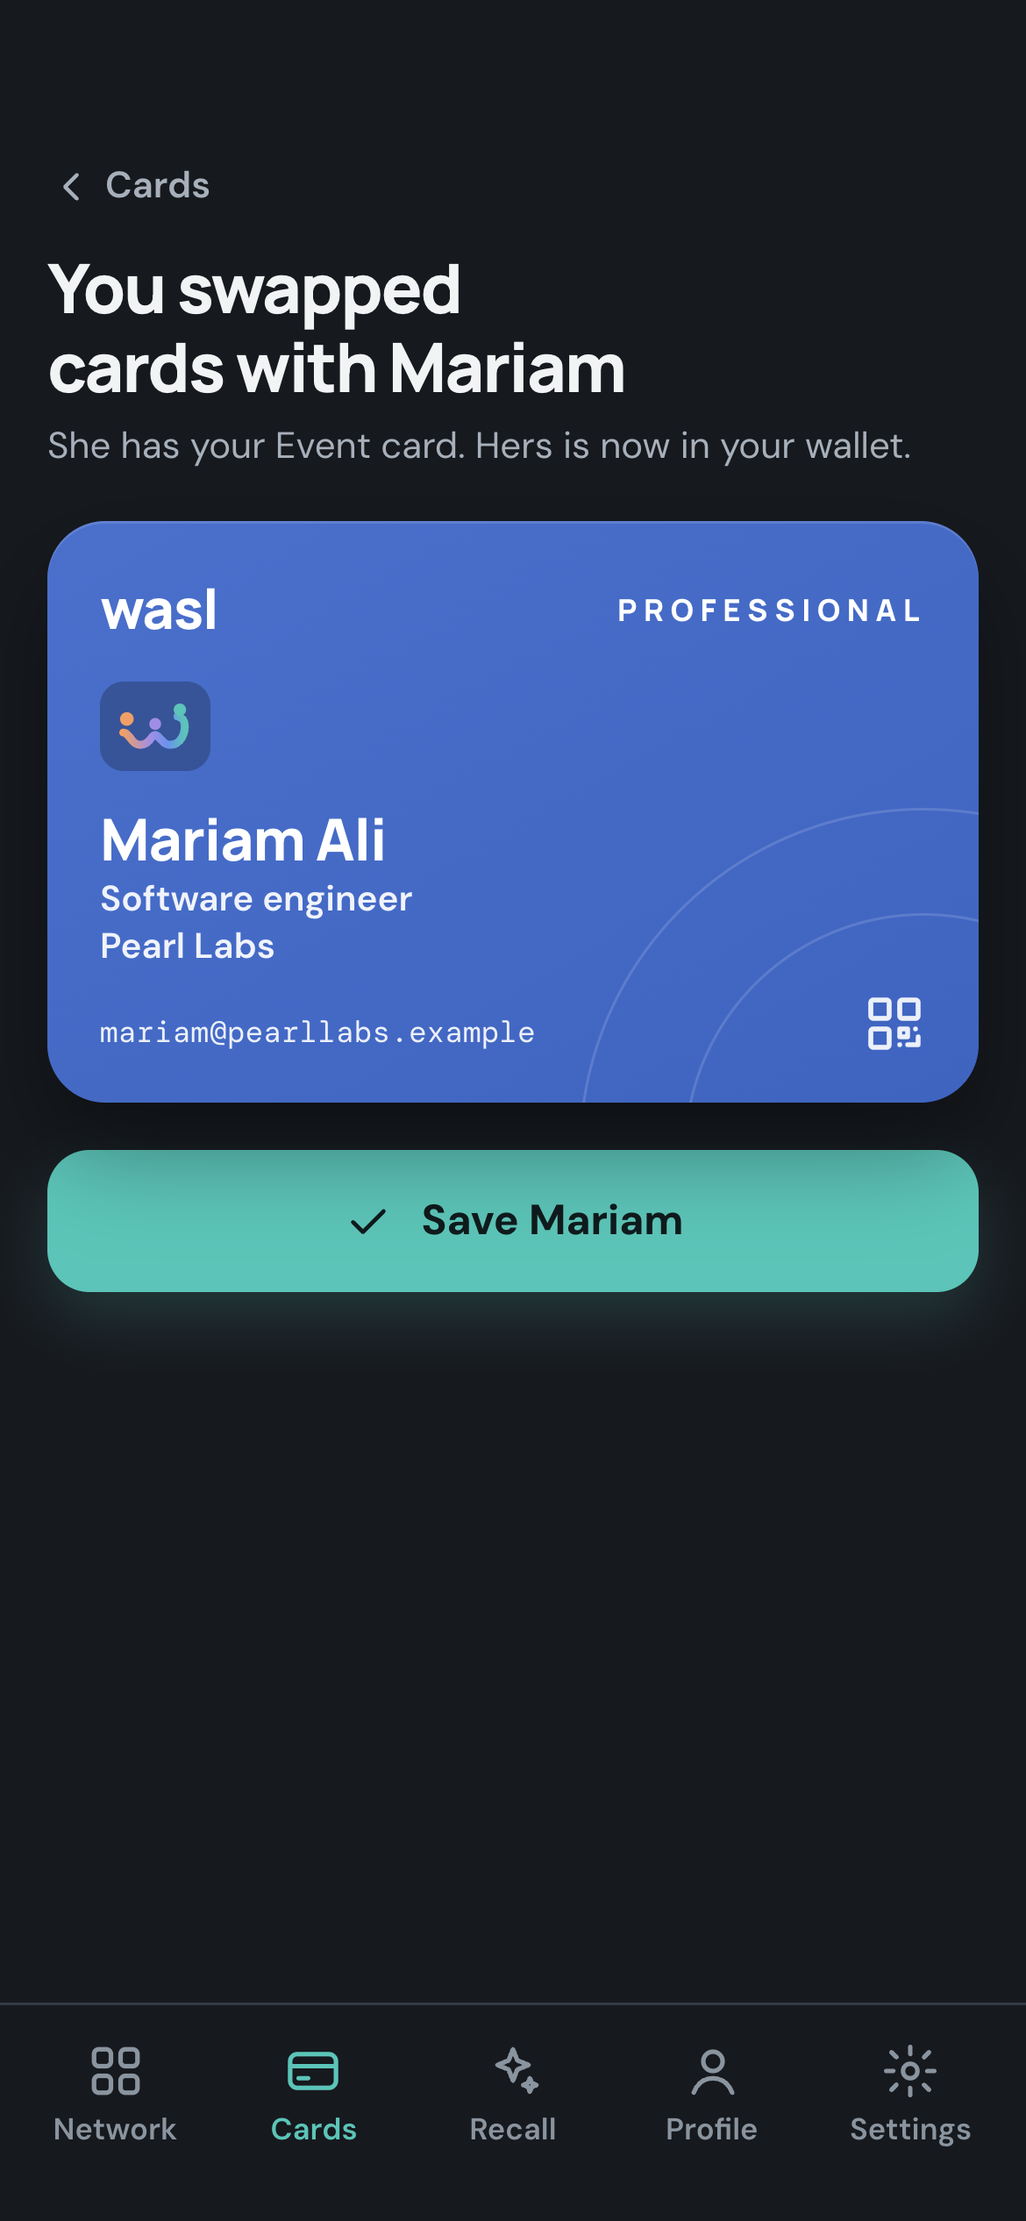
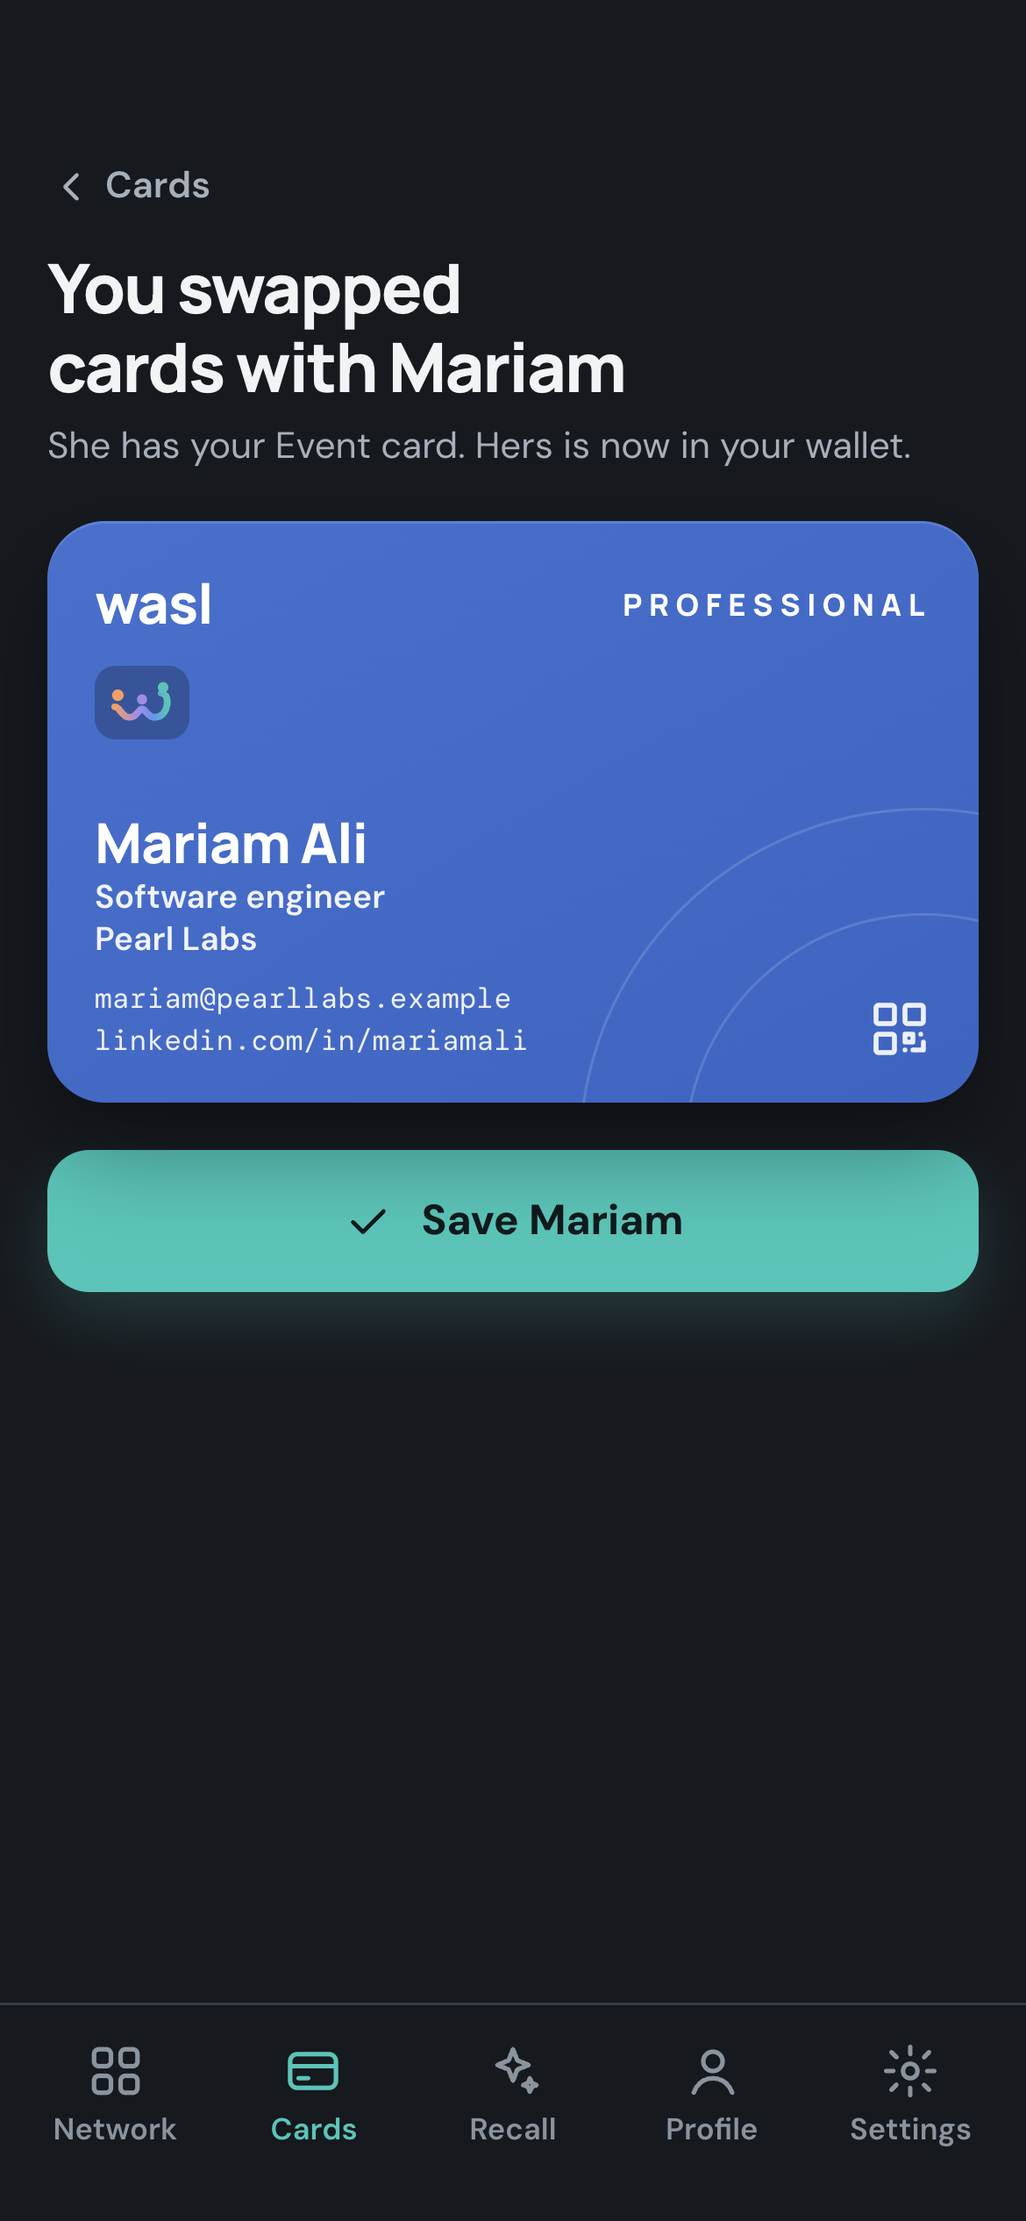
Vary card details, fix welcome-screen cards on phones, add paper card scanning
Cards now show different sets of details (email and LinkedIn, Instagram, phone)
instead of the same three fields. The welcome-screen cards use a fixed compact
size so long text can no longer stretch them into squares over the buttons.
The Share step adds scanning a paper business card for people without Wasl.

Changed region(s): [[0.0923, 0.2496, 0.5231, 0.468], [0.5846, 0.2496, 0.8923, 0.2808], [0.8308, 0.4368, 0.9231, 0.4992]]

diff --git a/public/mockup/index.html b/public/mockup/index.html
@@ -296,10 +296,11 @@ h1, h2, h3 { font-family: var(--display); text-wrap: balance; }
 .card {
   position: relative;
   border-radius: 22px;
-  padding: 18px 20px;
+  padding: 16px 18px;
   color: var(--card-text);
   overflow: hidden;
   aspect-ratio: 1.6 / 1;
+  min-height: 0;
   max-width: 100%;
   display: flex; flex-direction: column;
   box-shadow: 0 18px 34px rgba(0, 0, 0, 0.35), inset 0 1px 0 rgba(255, 255, 255, 0.12);
@@ -323,12 +324,22 @@ h1, h2, h3 { font-family: var(--display); text-wrap: balance; }
 .card .c-top { display: flex; justify-content: space-between; align-items: center; }
 .card .c-word { font-family: var(--display); font-weight: 800; font-size: 21px; letter-spacing: -0.4px; }
 .card .c-kind { font-family: var(--display); font-weight: 800; font-size: 11.5px; letter-spacing: 0.22em; }
-.card .c-tile { width: 42px; height: 34px; border-radius: 9px; background: rgba(15, 18, 24, 0.28); display: grid; place-items: center; margin-top: 12px; }
-.card .c-tile svg { width: 30px; height: 19px; }
-.card .c-name { font-family: var(--display); font-weight: 800; font-size: 22px; letter-spacing: -0.4px; margin-top: auto; line-height: 1.15; }
-.card .c-line { font-size: 13.5px; font-weight: 600; opacity: 0.92; line-height: 1.35; }
-.card .c-foot { display: flex; justify-content: space-between; align-items: flex-end; margin-top: 8px; gap: 8px; }
-.card .c-mono { font-family: var(--mono); font-size: 11.5px; opacity: 0.9; overflow: hidden; text-overflow: ellipsis; white-space: nowrap; }
+.card .c-tile { width: 36px; height: 28px; border-radius: 8px; background: rgba(15, 18, 24, 0.28); display: grid; place-items: center; margin-top: 8px; flex: none; }
+.card .c-tile svg { width: 26px; height: 16px; }
+.card .c-name { font-family: var(--display); font-weight: 800; font-size: 21px; letter-spacing: -0.4px; margin-top: auto; line-height: 1.15; overflow: hidden; text-overflow: ellipsis; white-space: nowrap; }
+.card .c-line { font-size: 12.5px; font-weight: 600; opacity: 0.92; line-height: 1.35; overflow: hidden; text-overflow: ellipsis; white-space: nowrap; }
+.card .c-foot { display: flex; justify-content: space-between; align-items: flex-end; margin-top: 6px; gap: 8px; }
+.card .c-contacts { display: flex; flex-direction: column; min-width: 0; }
+.card .c-mono { font-family: var(--mono); font-size: 11px; line-height: 1.4; opacity: 0.9; overflow: hidden; text-overflow: ellipsis; white-space: nowrap; }
+/* small cards fanned out on the welcome screen: fixed size so long text can never stretch them */
+.card.mini { width: 196px; height: 122px; aspect-ratio: auto; padding: 12px 14px; border-radius: 16px; }
+.card.mini .c-word { font-size: 16px; }
+.card.mini .c-kind { font-size: 9px; letter-spacing: 0.18em; }
+.card.mini .c-tile { width: 28px; height: 22px; margin-top: 6px; }
+.card.mini .c-tile svg { width: 20px; height: 13px; }
+.card.mini .c-name { font-size: 16px; }
+.card.mini .c-line { font-size: 10.5px; }
+.card.mini .c-foot { display: none; }
 .card .c-qr { width: 24px; height: 24px; flex: none; opacity: 0.9; }
 .card .f { border-radius: 6px; transition: background 120ms; }
 .card.editing .f { cursor: pointer; outline: 1px dashed rgba(255, 255, 255, 0.35); outline-offset: 2px; padding: 0 3px; margin-left: -3px; }
@@ -347,8 +358,8 @@ h1, h2, h3 { font-family: var(--display); text-wrap: balance; }
 .join-hero svg.big { width: 128px; height: 82px; }
 .join-hero .wm { font-family: var(--display); font-weight: 800; font-size: 44px; letter-spacing: -1.2px; line-height: 1; }
 .join-hero p { color: var(--text-2); max-width: 26ch; }
-.fan { position: relative; height: 170px; margin: 18px 0 8px; }
-.fan .card { position: absolute; width: 210px; left: 50%; top: 10px; }
+.fan { position: relative; height: 160px; margin: 18px 0 8px; }
+.fan .card { position: absolute; left: 50%; top: 14px; }
 .viewfinder {
   position: relative;
   border-radius: 24px;
@@ -675,16 +686,17 @@ h1, h2, h3 { font-family: var(--display); text-wrap: balance; }
   const KIND = { pro: "PROFESSIONAL", event: "EVENT", social: "SOCIAL", team: "TEAM WASL" };
   const COLOR_NAME = { pro: "Deep teal", event: "Deep violet", social: "Copper", team: "Deep blue" };
 
+  // Each person shares a different set of details, the way real cards differ.
   const MARIAM = {
     id: "mariam", name: "Mariam Ali", role: "Software engineer", org: "Pearl Labs",
-    mono: "mariam@pearllabs.example", color: "team", kind: "PROFESSIONAL",
+    contacts: ["mariam@pearllabs.example", "linkedin.com/in/mariamali"], color: "team", kind: "PROFESSIONAL",
   };
   const TONIGHT = [
     MARIAM,
-    { id: "omar", name: "Omar Haddad", role: "Product designer", org: "Dhow Design Studio", mono: "@omar.designs", color: "social", kind: "SOCIAL", note: "Showed his portfolio app" },
-    { id: "lina", name: "Lina Farouk", role: "Data scientist", org: "Falcon Analytics", mono: "lina@falcon.example", color: "pro", kind: "PROFESSIONAL", note: "Talked about her NLP research" },
-    { id: "yousef", name: "Yousef Al-Kuwari", role: "Founder", org: "Najm Robotics", mono: "yousef@najm.example", color: "event", kind: "EVENT", note: "Looking for a first engineer" },
-    { id: "sara", name: "Sara Nasser", role: "Talent partner", org: "Corniche Capital", mono: "sara@corniche.example", color: "team", kind: "PROFESSIONAL", note: "Runs their internship program" },
+    { id: "omar", name: "Omar Haddad", contacts: ["@omar.designs", "omar.haddad@mail.example"], color: "social", kind: "SOCIAL", role: "Product designer", org: "Dhow Design Studio", hideWork: true, note: "Showed his portfolio app" },
+    { id: "lina", name: "Lina Farouk", role: "Data scientist", org: "Falcon Analytics", contacts: ["lina@falcon.example", "linkedin.com/in/linafarouk"], color: "pro", kind: "PROFESSIONAL", note: "Talked about her NLP research" },
+    { id: "yousef", name: "Yousef Al-Kuwari", role: "Founder", org: "Najm Robotics", contacts: ["+974 5530 1188"], color: "event", kind: "EVENT", note: "Looking for a first engineer" },
+    { id: "sara", name: "Sara Nasser", role: "Talent partner", org: "Corniche Capital", contacts: ["sara@corniche.example"], color: "team", kind: "PROFESSIONAL", note: "Runs their internship program" },
   ];
   const OLDER = [
     { name: "Hamad Al-Thani", role: "Mentor, venture studio", org: "Bayt Ventures", event: "Web Summit Qatar", tag: "Mentor", color: "pro", when: "Oct 12" },
@@ -707,10 +719,10 @@ h1, h2, h3 { font-family: var(--display); text-wrap: balance; }
     profileFilled: false,
     extra: { instagram: false, photo: false },
     cards: {
-      pro: { color: "pro", fields: ["name", "role", "org", "email"] },
+      pro: { color: "pro", fields: ["name", "role", "org", "email", "linkedin"] },
       event: { color: "event", fields: ["name", "role", "org"] },
-      social: { color: "social", fields: ["name", "org", "instagram"] },
-      team: { color: "team", fields: ["name", "role", "email"] },
+      social: { color: "social", fields: ["name", "email", "instagram"] },
+      team: { color: "team", fields: ["name", "role", "phone"] },
     },
     order: ["social", "team", "pro", "event"],
     front: "event",
@@ -750,32 +762,34 @@ h1, h2, h3 { font-family: var(--display); text-wrap: balance; }
     const c = opts.data || S.cards[id];
     const fields = c.fields;
     const isEdit = !!opts.edit;
-    const body = ["name", "role", "org"].filter((f) => fields.includes(f));
+    const mini = !!opts.mini;
+    const body = ["name", "role", "org"].filter((f) => fields.includes(f) && !(mini && f === "org"));
     const contact = fields.filter((f) => !["name", "role", "org"].includes(f));
     const fEl = (f, cls, text) =>
       isEdit && f !== "name"
         ? `<span class="f ${cls}" data-act="hide-field" data-f="${f}" role="button" tabindex="0" aria-label="Hide ${FIELD_META[f].label}">${esc(text)}</span>`
         : `<span class="f ${cls} ${isEdit ? "locked" : ""}">${esc(text)}</span>`;
-    return `<${opts.tag || "div"} class="card ${c.color} ${isEdit ? "editing" : ""} ${opts.cls || ""}" ${opts.attrs || ""}>
+    return `<${opts.tag || "div"} class="card ${c.color} ${isEdit ? "editing" : ""} ${mini ? "mini" : ""} ${opts.cls || ""}" ${opts.attrs || ""}>
       <div class="c-top"><span class="c-word">wasl</span><span class="c-kind">${KIND[id] || ""}</span></div>
       <div class="c-tile">${symbol()}</div>
       ${body.includes("name") ? `<div class="c-name">${fEl("name", "", ME.name)}</div>` : ""}
       ${body.filter((f) => f !== "name").map((f) => `<div class="c-line">${fEl(f, "", fieldValue(f))}</div>`).join("")}
       <div class="c-foot">
-        <span class="c-mono">${contact.length ? contact.map((f) => fEl(f, "", fieldValue(f))).join(" · ") : body.map((f) => FIELD_META[f].label).join(" · ")}</span>
+        <span class="c-contacts">${contact.length ? contact.map((f) => `<span class="c-mono">${fEl(f, "", fieldValue(f))}</span>`).join("") : `<span class="c-mono">${body.map((f) => FIELD_META[f].label).join(" · ")}</span>`}</span>
         <span class="c-qr">${ic("qr")}</span>
       </div>
     </${opts.tag || "div"}>`;
   }
   function personCard(p, opts = {}) {
+    const lines = p.hideWork ? [] : [p.role, p.org].filter(Boolean);
+    const contacts = opts.foot ? [opts.foot] : p.contacts || [];
     return `<div class="card ${p.color} ${opts.cls || ""}" ${opts.attrs || ""}>
       <div class="c-top"><span class="c-word">wasl</span><span class="c-kind">${p.kind || "PROFESSIONAL"}</span></div>
       <div class="c-tile">${symbol()}</div>
       <div class="c-name">${esc(p.name)}</div>
-      <div class="c-line">${esc(p.role)}</div>
-      <div class="c-line">${esc(p.org)}</div>
+      ${lines.map((l) => `<div class="c-line">${esc(l)}</div>`).join("")}
       ${opts.note ? `<div class="note">${esc(opts.note)}</div>` : ""}
-      <div class="c-foot"><span class="c-mono">${esc(p.mono || "")}</span><span class="c-qr">${ic("qr")}</span></div>
+      <div class="c-foot"><span class="c-contacts">${contacts.map((x) => `<span class="c-mono">${esc(x)}</span>`).join("")}</span><span class="c-qr">${ic("qr")}</span></div>
       ${opts.stamps ? '<span class="stamp fav">FAVORITE</span><span class="stamp keep">CONTACT</span>' : ""}
     </div>`;
   }
@@ -825,9 +839,9 @@ h1, h2, h3 { font-family: var(--display); text-wrap: balance; }
           <p>Never forget who you met, or why it mattered.</p>
         </div>
         <div class="fan" aria-hidden="true">
-          ${card("social", { cls: "", attrs: 'style="transform:translateX(-82%) rotate(-12deg) scale(.9)"' })}
-          ${card("event", { attrs: 'style="transform:translateX(-18%) rotate(10deg) scale(.9)"' })}
-          ${card("pro", { attrs: 'style="transform:translateX(-50%) rotate(-1deg) scale(.95);top:18px"' })}
+          ${card("social", { mini: true, attrs: 'style="transform:translateX(-88%) rotate(-12deg) scale(.9)"' })}
+          ${card("event", { mini: true, attrs: 'style="transform:translateX(-12%) rotate(10deg) scale(.9)"' })}
+          ${card("pro", { mini: true, attrs: 'style="transform:translateX(-50%) rotate(-2deg);top:24px"' })}
         </div>
         <div class="stack" style="margin-top:22px">
           <button class="btn" data-act="scan-own">${ic("scan")}Scan my business card</button>
@@ -901,10 +915,29 @@ h1, h2, h3 { font-family: var(--display); text-wrap: balance; }
 
     exchange() {
       const kind = KIND[S.front].charAt(0) + KIND[S.front].slice(1).toLowerCase();
+      if (S.exPhase === "paper")
+        return `${back("exchange-reset", "Cancel")}
+          <h2 class="title" style="font-size:26px">Scan their paper card</h2>
+          <p class="sub">No Wasl? Hold their business card inside the frame.</p>
+          <div class="viewfinder" style="margin-top:18px">
+            <div class="paper"><b>Mariam Ali</b><span>Software engineer</span><span>Pearl Labs</span><span class="m">mariam@pearllabs.example<br>+974 5571 2290 · pearllabs.example</span></div>
+            <div class="corners"><i></i><i></i><i></i><i></i></div><div class="scanline"></div>
+          </div>
+          <p class="hint" style="margin-top:14px">Reading the card…</p>`;
+      if (S.exPhase === "paperfound") {
+        const rows = [["Name", "Mariam Ali"], ["Role", "Software engineer"], ["Company", "Pearl Labs"], ["Email", "mariam@pearllabs.example"], ["Phone", "+974 5571 2290"]];
+        return `${back("exchange-reset", "Start over")}
+          <h2 class="title" style="font-size:26px">Found 5 details</h2>
+          <p class="sub">Check them before saving. Wasl sends Mariam an invite to get her own card.</p>
+          <div class="panel" style="margin:18px 0">
+            <ul class="found">${rows.map(([k, v], i) => `<li style="animation-delay:${i * 110}ms"><span class="k">${k}</span><span class="v">${esc(v)}</span></li>`).join("")}</ul>
+          </div>
+          <button class="btn" data-act="paper-save">${ic("check")}Save Mariam</button>`;
+      }
       if (S.exPhase === "done")
         return `${back("wallet", "Cards")}
-          <h2 class="title" style="font-size:26px">You swapped cards with Mariam</h2>
-          <p class="sub">She has your ${kind} card. Hers is now in your wallet.</p>
+          <h2 class="title" style="font-size:26px">${S.swappedWith === "paper" ? "Mariam's paper card is saved" : "You swapped cards with Mariam"}</h2>
+          <p class="sub">${S.swappedWith === "paper" ? "Wasl turned it into a card and invited her to join." : `She has your ${kind} card. Hers is now in your wallet.`}</p>
           <div style="margin:18px 0">${personCard(MARIAM)}</div>
           <button class="btn" data-go="save">${ic("check")}Save Mariam</button>`;
       return `${back("wallet", "Cards")}
@@ -918,7 +951,8 @@ h1, h2, h3 { font-family: var(--display); text-wrap: balance; }
         <div class="row" style="margin-top:12px">
           <div style="width:72px;height:72px;flex:none">${qrSvg(7)}</div>
           <button class="btn" data-act="do-swap" ${S.exPhase === "swapping" ? "disabled" : ""}>${ic("scan")}Scan Mariam's code</button>
-        </div>`;
+        </div>
+        <button class="link" style="display:block;margin:10px auto 0" data-act="scan-paper">No Wasl? Scan their paper card</button>`;
     },
 
     save() {
@@ -1031,7 +1065,7 @@ h1, h2, h3 { font-family: var(--display); text-wrap: balance; }
       return `${back("network", "Network")}
         <h2 class="title" style="font-size:26px">${esc(a.name)}</h2>
         <p class="sub">${ps.length} cards · swipe to flip through</p>
-        <div class="flip" style="margin-top:14px">${ps.map((p) => personCard({ ...p, mono: p.when ? "Met " + p.when : "" })).join("")}</div>
+        <div class="flip" style="margin-top:14px">${ps.map((p) => personCard(p, { foot: p.when ? "Met " + p.when : "" })).join("")}</div>
         <ul class="people">${ps.map(personRow).join("")}</ul>`;
     },
 
@@ -1044,7 +1078,7 @@ h1, h2, h3 { font-family: var(--display); text-wrap: balance; }
         results = r.length
           ? r.map((m, i) => `<div style="margin-top:${i ? 18 : 16}px">
               <div class="row" style="justify-content:space-between;margin-bottom:8px"><span class="label">${i ? "Also possible" : "Best match"}</span><span class="match">${m.score}% match</span></div>
-              ${personCard(m.p, { cls: "", attrs: `style="${i ? "aspect-ratio:2.4/1" : ""}"` })}
+              ${personCard(m.p)}
               <div class="panel why" style="margin-top:10px"><span class="label" style="color:var(--violet)">Why it matched</span><q>${esc(m.why)}</q><span class="src" style="color:var(--muted);font-size:12px;display:block;margin-top:6px">${esc(m.src)}</span></div>
             </div>`).join("")
           : `<div class="panel stack" style="margin-top:16px"><b>No one matched that</b><p class="sub">Try what they did, where you met, or what you talked about.</p></div>`;
@@ -1100,7 +1134,7 @@ h1, h2, h3 { font-family: var(--display); text-wrap: balance; }
   function personRow(p) {
     const initials = p.name.split(" ").map((w) => w[0]).slice(0, 2).join("");
     const act = p.id === "mariam" ? 'data-go="remember"' : "";
-    return `<li><button class="person" ${act}><span class="mini" style="background:var(--card-${p.color})">${initials}</span><span class="pv"><b>${esc(p.name)}</b><span>${esc(p.role)} · ${esc(p.org)}</span></span>${p.fav ? ic("star", 'class="star"') : ""}<span class="label" style="flex:none">${esc(p.when)}</span></button></li>`;
+    return `<li><button class="person" ${act}><span class="mini" style="background:var(--card-${p.color})">${initials}</span><span class="pv"><b>${esc(p.name)}</b><span>${esc(p.hideWork ? p.contacts.join(" · ") : `${p.role} · ${p.org}`)}</span></span>${p.fav ? ic("star", 'class="star"') : ""}<span class="label" style="flex:none">${esc(p.when)}</span></button></li>`;
   }
   function recallMatch(q) {
     const t = q.toLowerCase();
@@ -1109,7 +1143,7 @@ h1, h2, h3 { font-family: var(--display); text-wrap: balance; }
     const out = [];
     if (has("cto", "intro", "engineer", "pearl", "payments")) {
       out.push({ p: m[0], score: 94, why: S.summary ? "Offered an intro to her CTO" : "Software engineer at Pearl Labs", src: S.summary ? "Your chat summary · Campus networking night, tonight" : "Her card · Campus networking night, tonight" });
-      if (has("intro")) out.push({ p: { ...OLDER[2], mono: "Met Sep 28", kind: "PROFESSIONAL" }, score: 61, why: "Tagged Intro offered", src: "Your tag · CMU-Q alumni mixer, Sep 28" });
+      if (has("intro")) out.push({ p: { ...OLDER[2], contacts: ["daniel@pearllabs.example"], kind: "PROFESSIONAL" }, score: 61, why: "Tagged Intro offered", src: "Your tag · CMU-Q alumni mixer, Sep 28" });
     } else if (has("design", "portfolio")) {
       out.push({ p: m[1], score: 91, why: "Showed his portfolio app", src: "Your memory · Campus networking night, tonight" });
     } else if (has("hiring", "intern", "job", "recruit")) {
@@ -1209,6 +1243,7 @@ h1, h2, h3 { font-family: var(--display); text-wrap: balance; }
   // ---------- actions ----------
   function go(to) {
     if (to === "join-reset") { S.joinPhase = "choose"; S.screen = "join"; }
+    else if (to === "exchange-reset") { S.exPhase = "ready"; S.screen = "exchange"; }
     else if (to === "save" && !S.swappedWith) { setupTo(3); }
     else if (to === "remember" && !S.swappedWith) { setupTo(4); }
     else S.screen = to;
@@ -1261,6 +1296,19 @@ h1, h2, h3 { font-family: var(--display); text-wrap: balance; }
       render();
       buzz();
       later(950, () => { S.exPhase = "done"; S.swappedWith = S.front; render(); xpToast("New connection", 30); });
+    },
+    "scan-paper"() {
+      S.exPhase = "paper";
+      render();
+      later(1900, () => { if (S.exPhase === "paper") { S.exPhase = "paperfound"; render(); } });
+    },
+    "paper-save"() {
+      if (!S.profileFilled) S.profileFilled = true;
+      S.swappedWith = "paper";
+      S.exPhase = "done";
+      S.screen = "save";
+      render();
+      xpToast("New connection", 30);
     },
     "confirm-ctx"() { S.ctxConfirmed = true; S.mariamSaved = true; render(); xpToast("Story saved", 10); },
     "change-ctx"() { toast("You can pick another event or place here"); },
@@ -1422,7 +1470,7 @@ h1, h2, h3 { font-family: var(--display); text-wrap: balance; }
   const STEPS = [
     { n: "1", t: "Join", wow: 1, h: "Scan your card. Your profile fills itself.", screen: "join" },
     { n: "2", t: "Build", wow: 1, h: "Tap details on the card to hide them. Pick a color.", screen: "build" },
-    { n: "3", t: "Share", wow: 1, h: "Pick a card from the wallet and swap with Mariam.", screen: "wallet" },
+    { n: "3", t: "Share", wow: 1, h: "Swap cards with Mariam, or scan her paper card.", screen: "wallet" },
     { n: "4", t: "Save", wow: 2, h: "Confirm where you met. Add a tag.", screen: "save" },
     { n: "5", t: "Remember", wow: 2, h: "Hold the mic. AI keeps only what mattered.", screen: "remember" },
     { n: "+", t: "Debrief", wow: 2, h: "Bonus: swipe through tonight's people.", screen: "debrief" },
